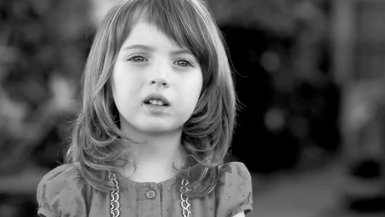
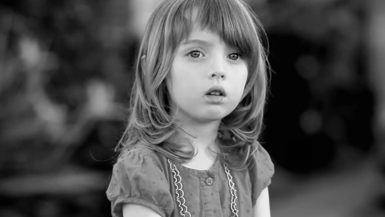
Assets (thumbnail) updates; sub-nav fixes

diff --git a/index.html b/index.html
@@ -249,7 +249,7 @@
           </div>
           <div class="item col-sm-4">
             <a href="https://vimeo.com/126749729">
-              <img src="img/Work/1.png"> <!-- I think Secret Confessions -->
+              <img src="img/Work/Secrets BW.png"> <!-- I think Secret Confessions -->
             </a>
           </div>
           <div class="item col-sm-4">
@@ -481,8 +481,8 @@ var configureGrid = function( selector ) {
 var configureSocial = function( selector ) {
   $(selector).each(function () {
     var $img = $(this).find('img').first();
-    hover_url = $img.attr('src').split('.png').join(' hover.png');
-    $img.hoverImg(hover_url);
+    //hover_url = $img.attr('src').split('.png').join(' hover.png');
+    // $img.hoverImg(hover_url);
   });
 };
 

diff --git a/cover-custom.css b/cover-custom.css
@@ -187,16 +187,24 @@ body {
   background-color: #50E3C2;
   background-color: rgba(80,227,194, 0.60);
   background-color: #888888;
-  background-color: rgba(125, 125, 125, 0.80);
+  background-color: rgba(255, 255, 255, 0.50);
   padding-top: 10px;
   padding-bottom: 10px;
+  font-size: 16px;
 }
 
 /* each sub-nav-section has one, maybe more, rows */
 
 .sub-nav-section ul li {
-  padding-top: 5px;
-  padding-bottom: 5px;
+  margin: 10px 0;
+}
+
+.sub-nav-section ul li a, .sub-nav-section ul li a:hover {
+  color: white;
+}
+
+.sub-nav-section ul li a:hover {
+  text-decoration: underline;
 }
 
 /*
